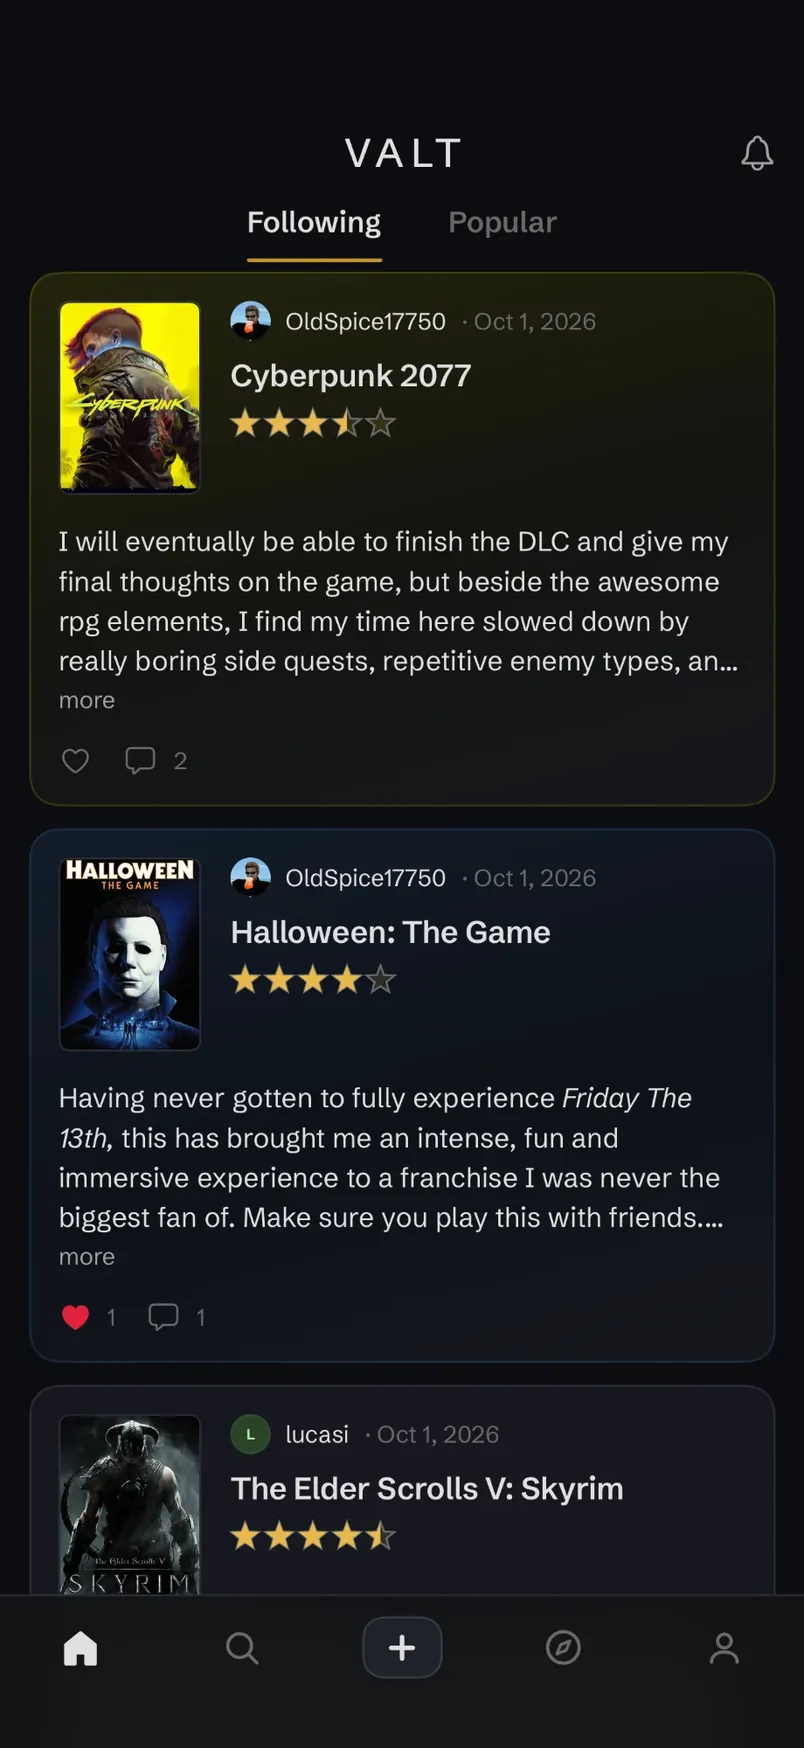
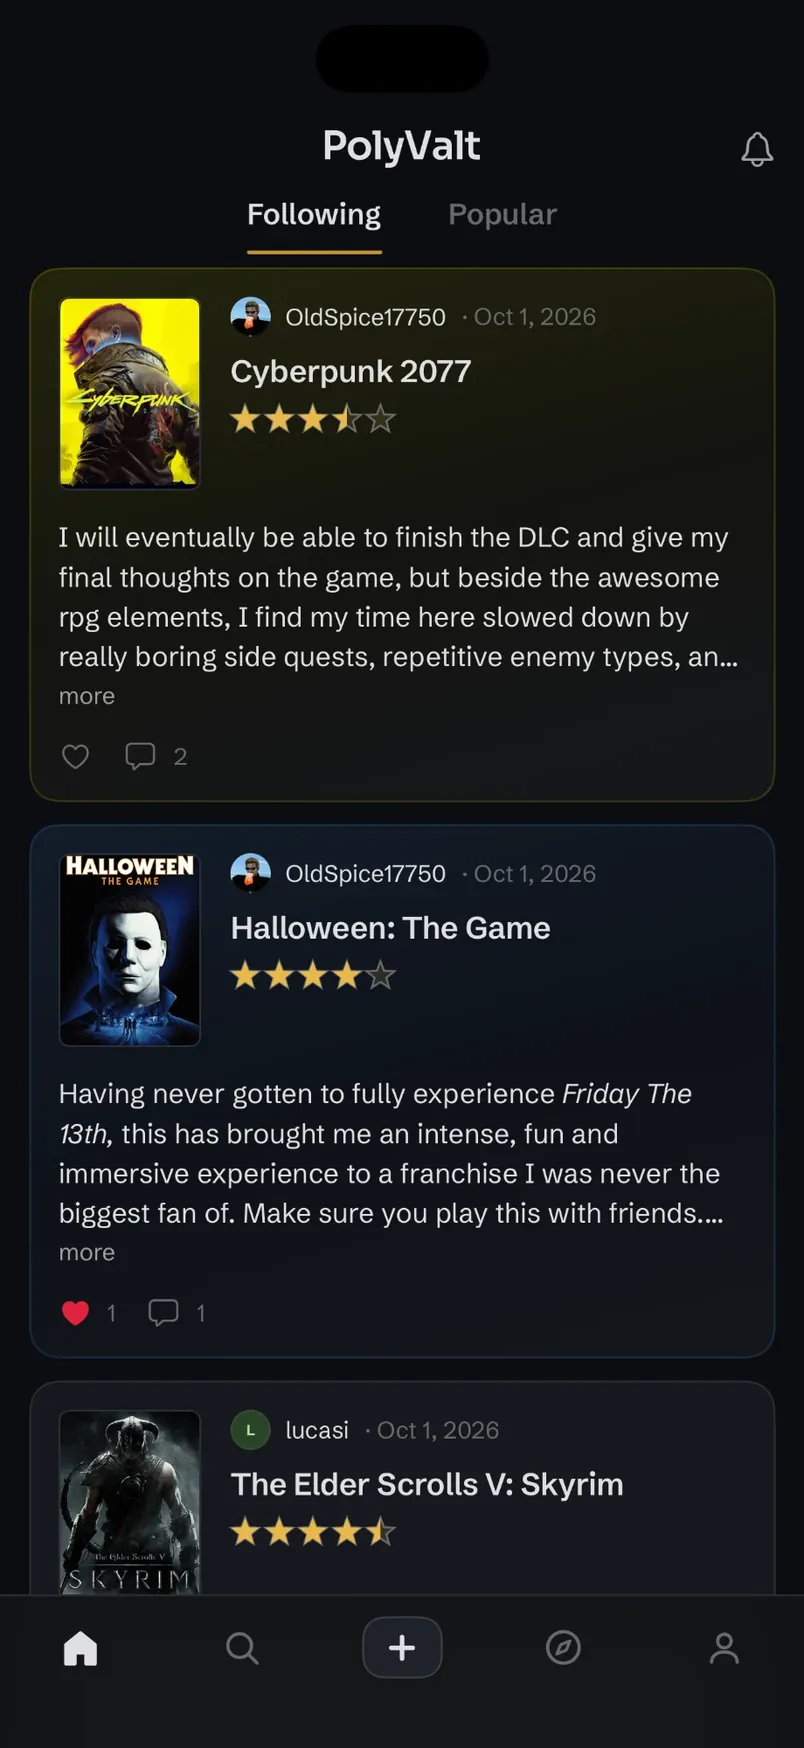
Rename Valt to PolyValt, with the new wordmark as its title
- The app is now PolyValt everywhere: tile label, project page, case
  study, About bio, page title and link-preview text. The project page
  moves to /projects/polyvalt; /projects/valt redirects there (308).
- The PolyValt wordmark replaces the text title on the project page and
  in the homepage hero: an inline vector sized so its capitals and
  baseline match the title font exactly, keeping the lockup's box, the
  icon and the homepage-to-project morph unchanged.
- New feed screenshot showing the PolyValt header, retouched and encoded
  like the others (status bar removed for the frame's 9:41 bar, 804x1748
  WebP).

diff --git a/components/project/Wordmark.tsx b/components/project/Wordmark.tsx
@@ -1,0 +1,50 @@
+/**
+ * App wordmarks drawn in place of a project's text title (TitleLockup). Each path is in font units with its baseline
+ * at y = 0 and capitals 735 units tall. It is scaled so its capitals match the title font's (Bricolage Grotesque:
+ * 660/1000 em) and placed so its baseline sits where the title text's does: 0.78em down the 0.9em-tall title box
+ * (line-height .9 with ascent 930 / descent 270). Negative bottom margin keeps the box exactly 0.9em, so the lockup,
+ * the icon beside it and the homepage-to-project morph keep their geometry; the descender hangs below like text.
+ * An inline vector (no image request), so it is ready for the morph's first frame and scales without pixel rounding.
+ */
+const CAP = 735;
+const TEXT_CAP = 0.66;
+const BASELINE = 0.78;
+const BOX = 0.9;
+
+// PolyValt: polyvalt-cc-wordmark.svg (metadata removed). x0/x1 trim the side bearings so the "P" starts at the same
+// offset (0.014em) as the title text's first letter did; top/bottom are the file's own vertical bounds.
+const WORDMARKS = {
+  polyvalt: {
+    x0: 74,
+    x1: 4060,
+    top: -795,
+    bottom: 274,
+    d: "M232 0L90 0L90-735L342-735Q434-735 498.50-705Q563-675 597-619.50Q631-564 631-488L631-488L631-472Q631-396 597-340.50Q563-285 498.50-254.50Q434-224 342-224L342-224L232-224L232 0ZM354-612L232-612L232-347L354-347Q397-347 426.50-364Q456-381 471.50-411Q487-441 487-480Q487-519 471.50-549Q456-579 426.50-595.50Q397-612 354-612L354-612Z M973 19L973 19Q901 19 846-4Q791-27 753-66.50Q715-106 695.50-156Q676-206 676-260L676-260L676-281Q676-337 696.50-387.50Q717-438 755.50-477.50Q794-517 849-539.50Q904-562 973-562L973-562Q1042-562 1097-539.50Q1152-517 1190.50-477.50Q1229-438 1249-387.50Q1269-337 1269-281L1269-281L1269-260Q1269-206 1249.50-156Q1230-106 1192-66.50Q1154-27 1099-4Q1044 19 973 19ZM973-100L973-100Q1024-100 1059-122.50Q1094-145 1112-183.50Q1130-222 1130-271L1130-271Q1130-321 1111.50-359.50Q1093-398 1057.50-420.50Q1022-443 973-443L973-443Q924-443 888.50-420.50Q853-398 834-359.50Q815-321 815-271L815-271Q815-222 833.50-183.50Q852-145 887-122.50Q922-100 973-100Z M1512 0L1373 0L1373-626L1305-626L1305-730L1512-730L1512 0Z M1719 214L1630 214L1630 95L1732 95Q1761 95 1780.50 87.50Q1800 80 1813 63.50Q1826 47 1833 18L1833 18L1841-12L1752-12L1576-543L1716-543L1848-122L1869-122L1979-543L2112-543L1951 48Q1935 109 1906 145.50Q1877 182 1831.50 198Q1786 214 1719 214L1719 214Z M2592 0L2358 0L2125-730L2272-730L2459-118L2494-118L2666-730L2808-730L2592 0Z M3326 0L3216 0L3216-104Q3209-83 3200-66L3200-66Q3177-27 3137.50-6.50Q3098 14 3041 14L3041 14Q2982 14 2937.50-7Q2893-28 2868.50-67Q2844-106 2844-161L2844-161Q2844-221 2873.50-259Q2903-297 2956.50-316Q3010-335 3082-335L3082-335L3193-335L3193-340Q3193-387 3170-410Q3147-433 3099-433L3099-433Q3074-433 3039-432Q3004-431 2968.50-429.50Q2933-428 2905-426L2905-426L2905-544Q2928-546 2957-548Q2986-550 3016.50-550.50Q3047-551 3074-551L3074-551Q3158-551 3213.50-529Q3269-507 3297.50-460Q3326-413 3326-337L3326-337L3326 0ZM3193-201L3193-252L3080-252Q3032-252 3006.50-228.50Q2981-205 2981-168Q2981-131 3006.50-108Q3032-85 3080-85L3080-85Q3109-85 3133.50-95.50Q3158-106 3174.50-131.50Q3191-157 3193-201L3193-201Z M3596 0L3457 0L3457-626L3389-626L3389-730L3596-730L3596 0Z M4044 7L3966 7Q3891 7 3842.50-12.50Q3794-32 3770-78.50Q3746-125 3746-204L3746-204L3746-441L3660-441L3660-543L3747-543L3747-696L3877-696L3877-543L4044-543L4044-441L3876-441L3876-195Q3876-155 3897.50-133.50Q3919-112 3959-112L3959-112L4044-112L4044 7Z",
+  },
+} as const;
+
+export type WordmarkName = keyof typeof WORDMARKS;
+
+export function Wordmark({ name }: { name: WordmarkName }) {
+  const w = WORDMARKS[name];
+  const k = TEXT_CAP / CAP; // em per font unit
+  const height = (w.bottom - w.top) * k;
+  const marginTop = BASELINE + w.top * k;
+  return (
+    <svg
+      aria-hidden
+      focusable="false"
+      viewBox={`${w.x0} ${w.top} ${w.x1 - w.x0} ${w.bottom - w.top}`}
+      fill="currentColor"
+      className="block overflow-visible"
+      style={{
+        width: `${((w.x1 - w.x0) * k).toFixed(5)}em`,
+        height: `${height.toFixed(5)}em`,
+        marginTop: `${marginTop.toFixed(5)}em`,
+        marginBottom: `${(BOX - marginTop - height).toFixed(5)}em`,
+      }}
+    >
+      <path d={w.d} />
+    </svg>
+  );
+}

diff --git a/content/site.ts b/content/site.ts
@@ -20,6 +20,8 @@ export type Project = {
   label: string;
   /** Large title on the hero and project page. */
   title: string;
+  /** Optional logo wordmark drawn instead of the text title (components/project/Wordmark.tsx); title stays its text. */
+  wordmark?: "polyvalt";
   kicker: string;
   year: string;
   /** One line under the title on the homepage. */
@@ -75,7 +77,7 @@ export const site = {
   introLine: "Software engineer. USC CS '26.",
   /** Meta description (search results, link previews). */
   description: "I build iOS apps, game engines and the backends under them. USC CS '26, Davis, CA.",
-  bio: "I'm a software engineer who graduated from USC with a B.S. in Computer Science in May 2026. I like owning the whole stack — Valt is a SwiftUI app, a TypeScript API and a Postgres database, and I built all three. Most recently I've been leading an engineering team and making slow dashboards fast.",
+  bio: "I'm a software engineer who graduated from USC with a B.S. in Computer Science in May 2026. I like owning the whole stack — PolyValt is a SwiftUI app, a TypeScript API and a Postgres database, and I built all three. Most recently I've been leading an engineering team and making slow dashboards fast.",
   /** Initials shown as the home link in the top-left nav. */
   monogram: "RS",
   /**
@@ -143,9 +145,10 @@ export const site = {
 
   projects: [
     {
-      slug: "valt",
-      label: "Valt",
-      title: "Valt",
+      slug: "polyvalt",
+      label: "PolyValt",
+      title: "PolyValt",
+      wordmark: "polyvalt",
       kicker: "iOS app",
       year: "2026",
       desc: "A SwiftUI app, a 26-endpoint TypeScript API and a Postgres database on AWS — built solo in three months.",
@@ -169,7 +172,7 @@ export const site = {
       ],
       writeup: {
         whatHead: "One place for every gamer's opinion.",
-        what: "Film fans have Letterboxd. Gamers are split across PlayStation, Xbox, Nintendo and PC, with no shared place to talk about what they play. Valt brings them together: log the games you play, rate and review them, and follow friends to see what they think. Players get a voice, and hear from each other instead of only from critics.",
+        what: "Film fans have Letterboxd. Gamers are split across PlayStation, Xbox, Nintendo and PC, with no shared place to talk about what they play. PolyValt brings them together: log the games you play, rate and review them, and follow friends to see what they think. Players get a voice, and hear from each other instead of only from critics.",
         arch: [
           { title: "SwiftUI app", detail: "No third-party libraries · Keychain token storage" },
           { title: "TypeScript API", detail: "Express · Prisma · 26 endpoints · JWT auth" },
@@ -190,7 +193,7 @@ export const site = {
             body: "Editing a review mid-scroll could make the feed serve an entire page twice. I reproduced the bug on purpose to prove the cause, fixed it, then reran the same test to confirm the fix.",
           },
         ],
-        next: "Launch on the App Store, then build smart search: tell Valt what you're in the mood for, and it finds games that match your taste and helps you learn more about the games you love.",
+        next: "Launch on the App Store, then build smart search: tell PolyValt what you're in the mood for, and it finds games that match your taste and helps you learn more about the games you love.",
       },
     },
     {

diff --git a/components/project/ProjectMedia.tsx b/components/project/ProjectMedia.tsx
@@ -3,6 +3,7 @@ import type { Project } from "@/content/site";
 import { AppIcon, ICON_SHADOW } from "@/components/AppIcon";
 import { ImageSlot } from "@/components/ImageSlot";
 import { PhoneFan } from "./PhoneFan";
+import { Wordmark } from "./Wordmark";
 
 /** Shared-element names: the same name on the homepage hero and the project page makes them morph. */
 const mediaName = (slug: string) => `project-media-${slug}`;
@@ -99,7 +100,14 @@ export function TitleLockup({
         <div className="relative flex h-[0.9em] w-fit items-center gap-[0.2em]">
           {icon && <AppIcon src={icon} sizes="(min-width: 1921px) 140px, 80px" shadow={false} className="size-[0.62em] flex-none" />}
           <Heading className="font-display text-[1em] leading-[.9] font-extrabold tracking-[-.05em] text-title">
-            {project.title}
+            {project.wordmark ? (
+              <>
+                <Wordmark name={project.wordmark} />
+                <span className="sr-only">{project.title}</span>
+              </>
+            ) : (
+              project.title
+            )}
           </Heading>
         </div>
       </ViewTransition>

diff --git a/next.config.ts b/next.config.ts
@@ -1,5 +1,10 @@
 import type { NextConfig } from "next";
 
-const nextConfig: NextConfig = {};
+const nextConfig: NextConfig = {
+  // The app was renamed from Valt to PolyValt: keep old links working.
+  async redirects() {
+    return [{ source: "/projects/valt", destination: "/projects/polyvalt", permanent: true }];
+  },
+};
 
 export default nextConfig;

diff --git a/README.md b/README.md
@@ -14,7 +14,7 @@ Everything on the site lives in **`content/site.ts`**: bio, links, skills, exper
   - `projects[].images.tile`: home-screen tile art (square)
   - `projects[].images.icon`: optional square app icon (transparent PNG/WebP with its own rounded corners), shown on the home tile and next to the project title
   - `projects[].images.hero`: full-screen background on the home screen and the hero image on the project page (4:3)
-  - `projects[].phones[].src`: Valt's three phone screenshots, left to right (402×874 aspect; use 804×1748 for sharp 2× display). The frame draws a 9:41 status bar on top, so remove the screenshot's own.
+  - `projects[].phones[].src`: PolyValt's three phone screenshots, left to right (402×874 aspect; use 804×1748 for sharp 2× display). The frame draws a 9:41 status bar on top, so remove the screenshot's own.
   - `projects[].writeup.whatScreen`: optional phone screenshot under the "What it is" headline (after the text on phones), same size and aspect as `phones`
 - `projects[].appLink`: optional external app button (label, link, small note under it) shown next to "Read the write-up" on the project page and the homepage hero. Valt's points to the TestFlight beta; at launch, swap in the App Store link and label.
 - `links.resume` is a placeholder (`#`) until the web résumé exists.
